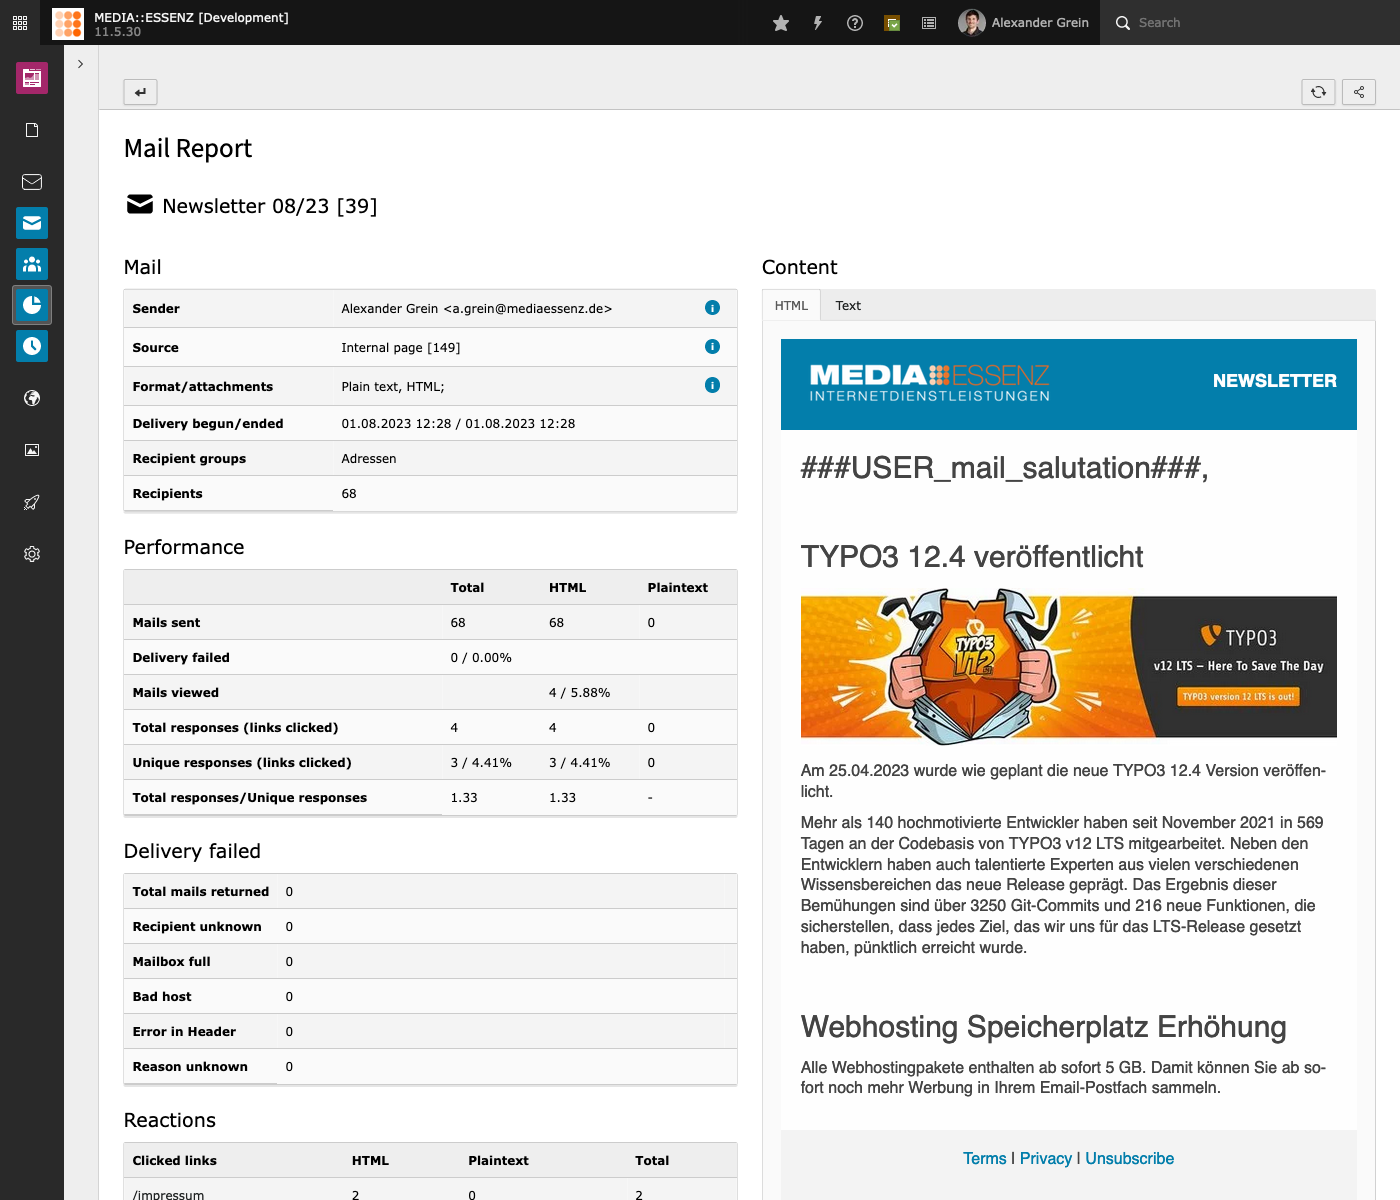
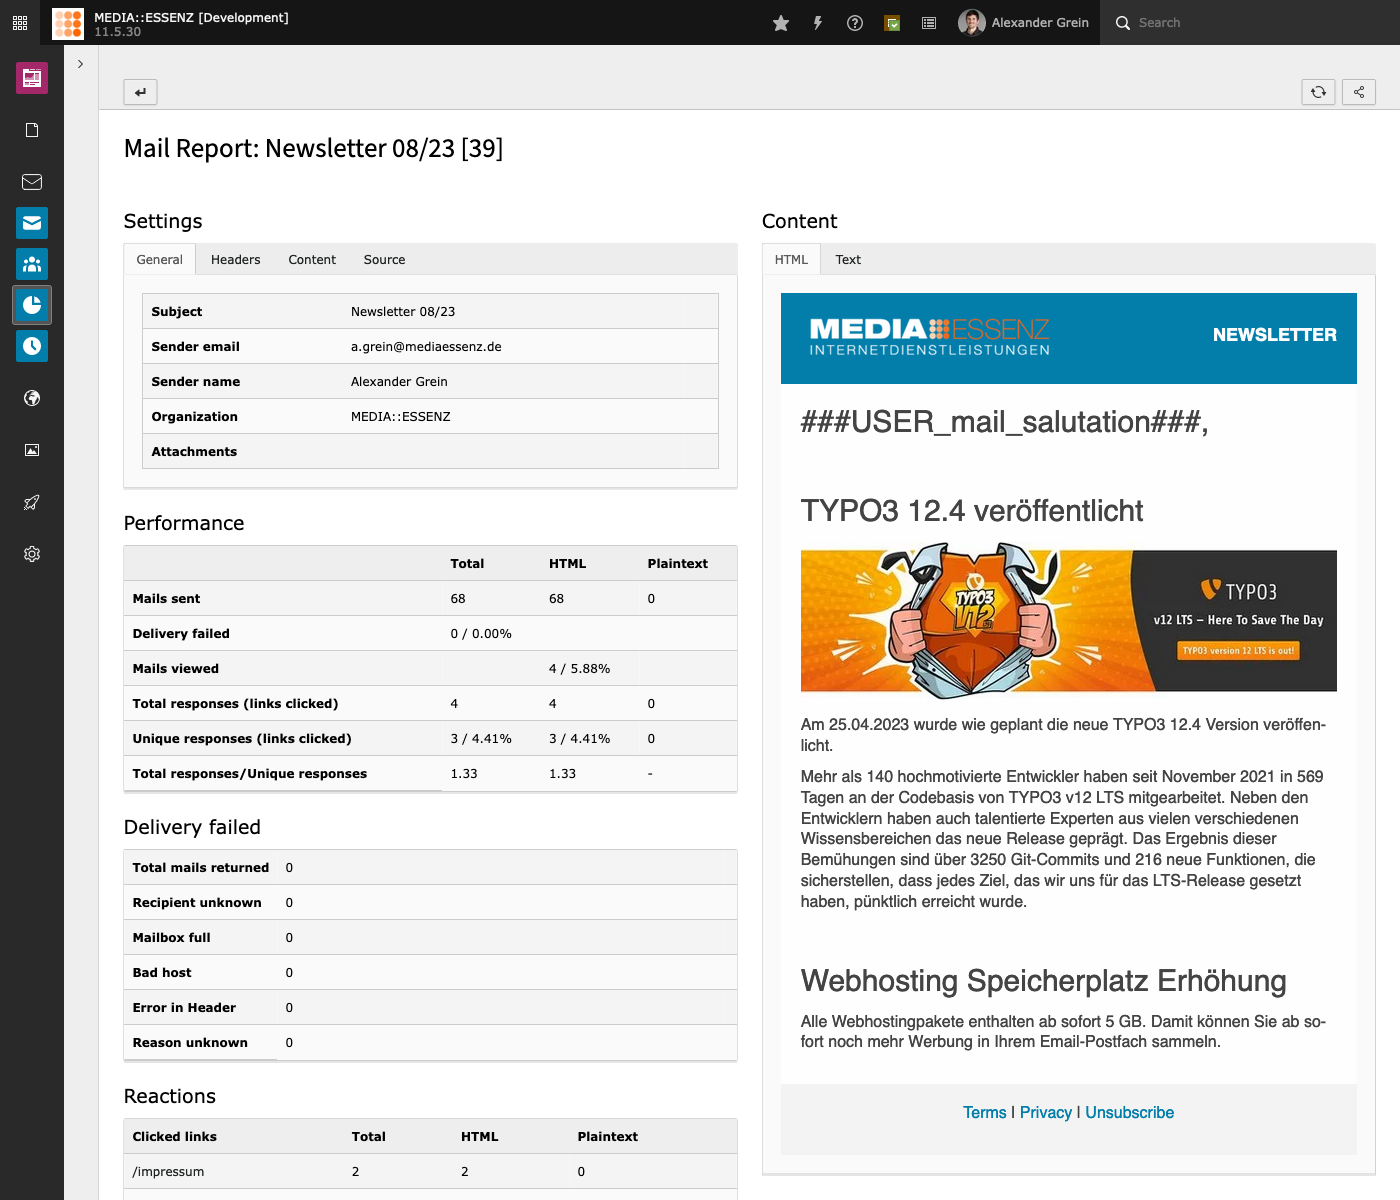
Change mail report details screenshot in documentation; Enhance documentation; Set version to 2.2.0

diff --git a/ext_emconf.php b/ext_emconf.php
@@ -7,7 +7,7 @@ $EM_CONF[$_EXTKEY] = [
     'author' => 'Alexander Grein',
     'author_email' => 'alexander.grein@gmail.com',
     'author_company' => 'MEDIA::ESSENZ',
-    'version' => '2.1.0',
+    'version' => '2.2.0',
     'state' => 'stable',
     'constraints' => [
         'depends' => [

diff --git a/Documentation/Reference/UserTsConfig/Index.rst b/Documentation/Reference/UserTsConfig/Index.rst
@@ -78,7 +78,7 @@ settingsWithoutTabs
    :Default: 0
    :Path: tx_mail.settingsWithoutTabs
 
-   Show settings wizard step without tabs.
+   Show mail settings in wizard step and report without tabs.
 
 .. _user-ts-config-settings-general:
 
@@ -91,7 +91,7 @@ settings.general
    :Default: subject,fromEmail,fromName,organisation,attachment
    :Path: tx_mail.settings.general
 
-   Comma separated list of general fields which should be visible in the mail wizard settings step.
+   Comma separated list of general fields which should be visible in the mail wizard settings step and report.
 
 .. _user-ts-config-settings-headers:
 
@@ -104,7 +104,7 @@ settings.headers
    :Default: replyToEmail,replyToName,returnPath,priority
    :Path: tx_mail.settings.headers
 
-   Comma separated list of header fields which should be visible in the mail wizard settings step.
+   Comma separated list of header fields which should be visible in the mail wizard settings step and report.
 
 .. _user-ts-config-settings-content:
 
@@ -117,7 +117,7 @@ settings.content
    :Default: sendOptions,includeMedia,redirect,redirectAll,authCodeFields
    :Path: tx_mail.settings.content
 
-   Comma separated list of content fields which should be visible in the mail wizard settings step.
+   Comma separated list of content fields which should be visible in the mail wizard settings step and report.
 
 .. _user-ts-config-settings-source:
 
@@ -130,7 +130,7 @@ settings.source
    :Default: type,renderedSize,page,sysLanguageUid,plainParams,htmlParams
    :Path: tx_mail.settings.source
 
-   Comma separated list of source fields which should be visible in the mail wizard settings step.
+   Comma separated list of source fields which should be visible in the mail wizard settings step and report.
 
 .. _user-ts-config-readOnlySettings:
 
